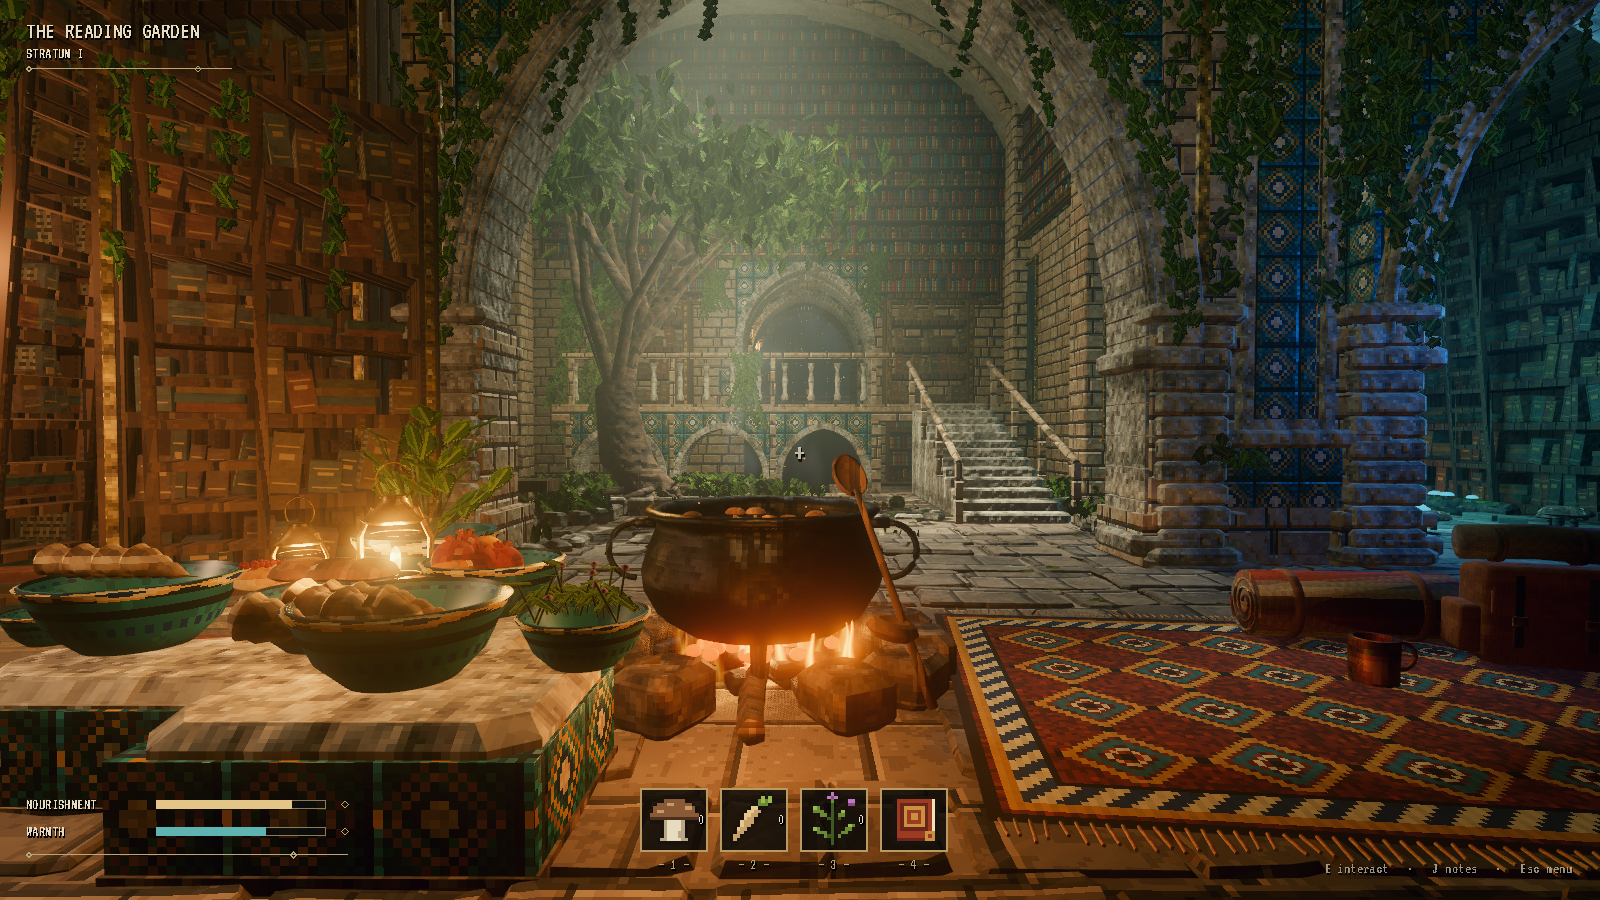
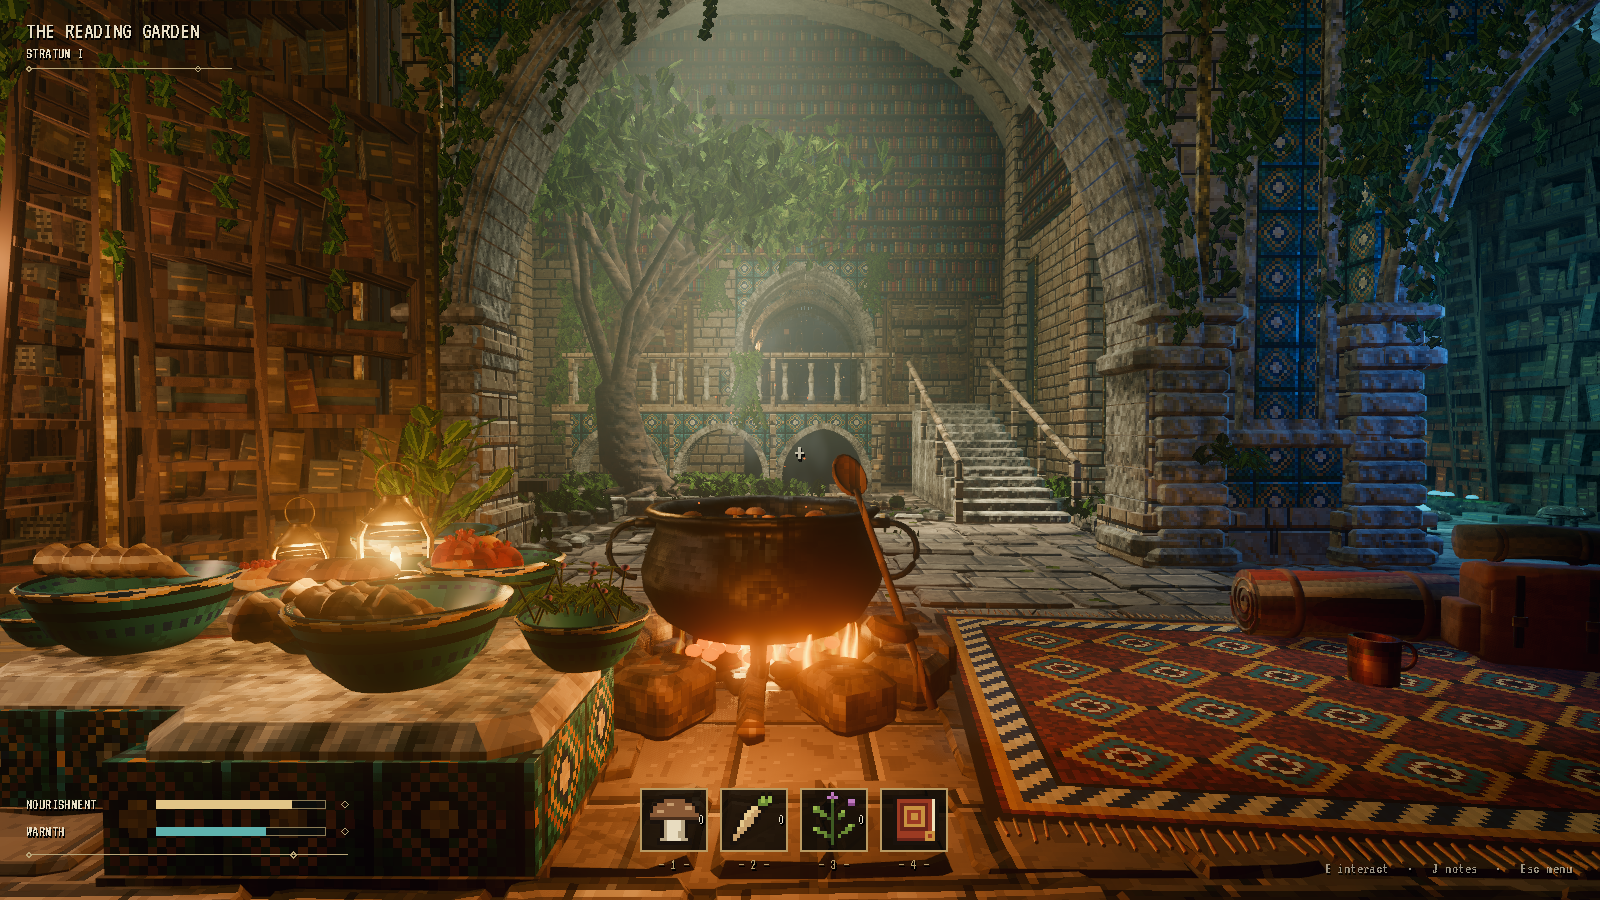
Grounding shadows and a more dramatic fire light
- asset_factory.box: small props cast shadows again (only trims under
  0.08 m skip them)
- art_direction: stronger AO applied to direct light (SSAO_INTENSITY
  2.2, light_affect 0.35); left fill casts shadows; FIRE_ENERGY 2.4,
  floor bounce 1.0, ARCHIVE_FILL_ENERGY 2.9
- atmosphere: fire light size 0.05, blur 0.55, attenuation 1.6 for
  crisp, dancing shadows with fast falloff
- world: unshadowed hearth fill 1.25 -> 0.45 so it no longer washes
  out fire shadows
- project.godot: positional shadow atlas 8192, high soft-shadow quality
- All six concept regions within +-15%

diff --git a/ART_DIRECTION.md b/ART_DIRECTION.md
@@ -296,3 +296,5 @@ archive).
 - Added `.gitattributes` (LF text, binary assets).
 - **Lanterns dimmed** (`LANTERN_FLAME_GLOW` 2.5, new `LANTERN_LIGHT_SCALE` 0.6 on lamp lights).
 - **Archive fungi:** no mushrooms on bare paving. `camp_composition.archive_fungi()` grows them from moss/soil mounds (glowing clusters, plain clusters, one mound under each mushroom gatherable) and a moss-backed rotting log with bracket fungi. The random scatter in `world.build_archive` is gone.
+- **Shadows and grounding:** small props cast shadows again (`asset_factory.box` only skips hairline trims under 0.08 m). AO is stronger and applied to direct light (`SSAO_INTENSITY` 2.2, `ssao_light_affect` 0.35). The positional shadow atlas is 8192 with high soft-shadow quality. The left fill now casts shadows.
+- **Fire drama:** small light source (0.05) with less blur (0.55), attenuation 1.6, `FIRE_ENERGY` 2.4. The unshadowed warm fill above the hearth went 1.25 → 0.45; the floor bounce went 0.5 → 1.0 to light the rug the way bounced firelight would. `ARCHIVE_FILL_ENERGY` 2.9. Gate: whole 1.08, hearth 1.06, rug 0.91, archive 0.88.
